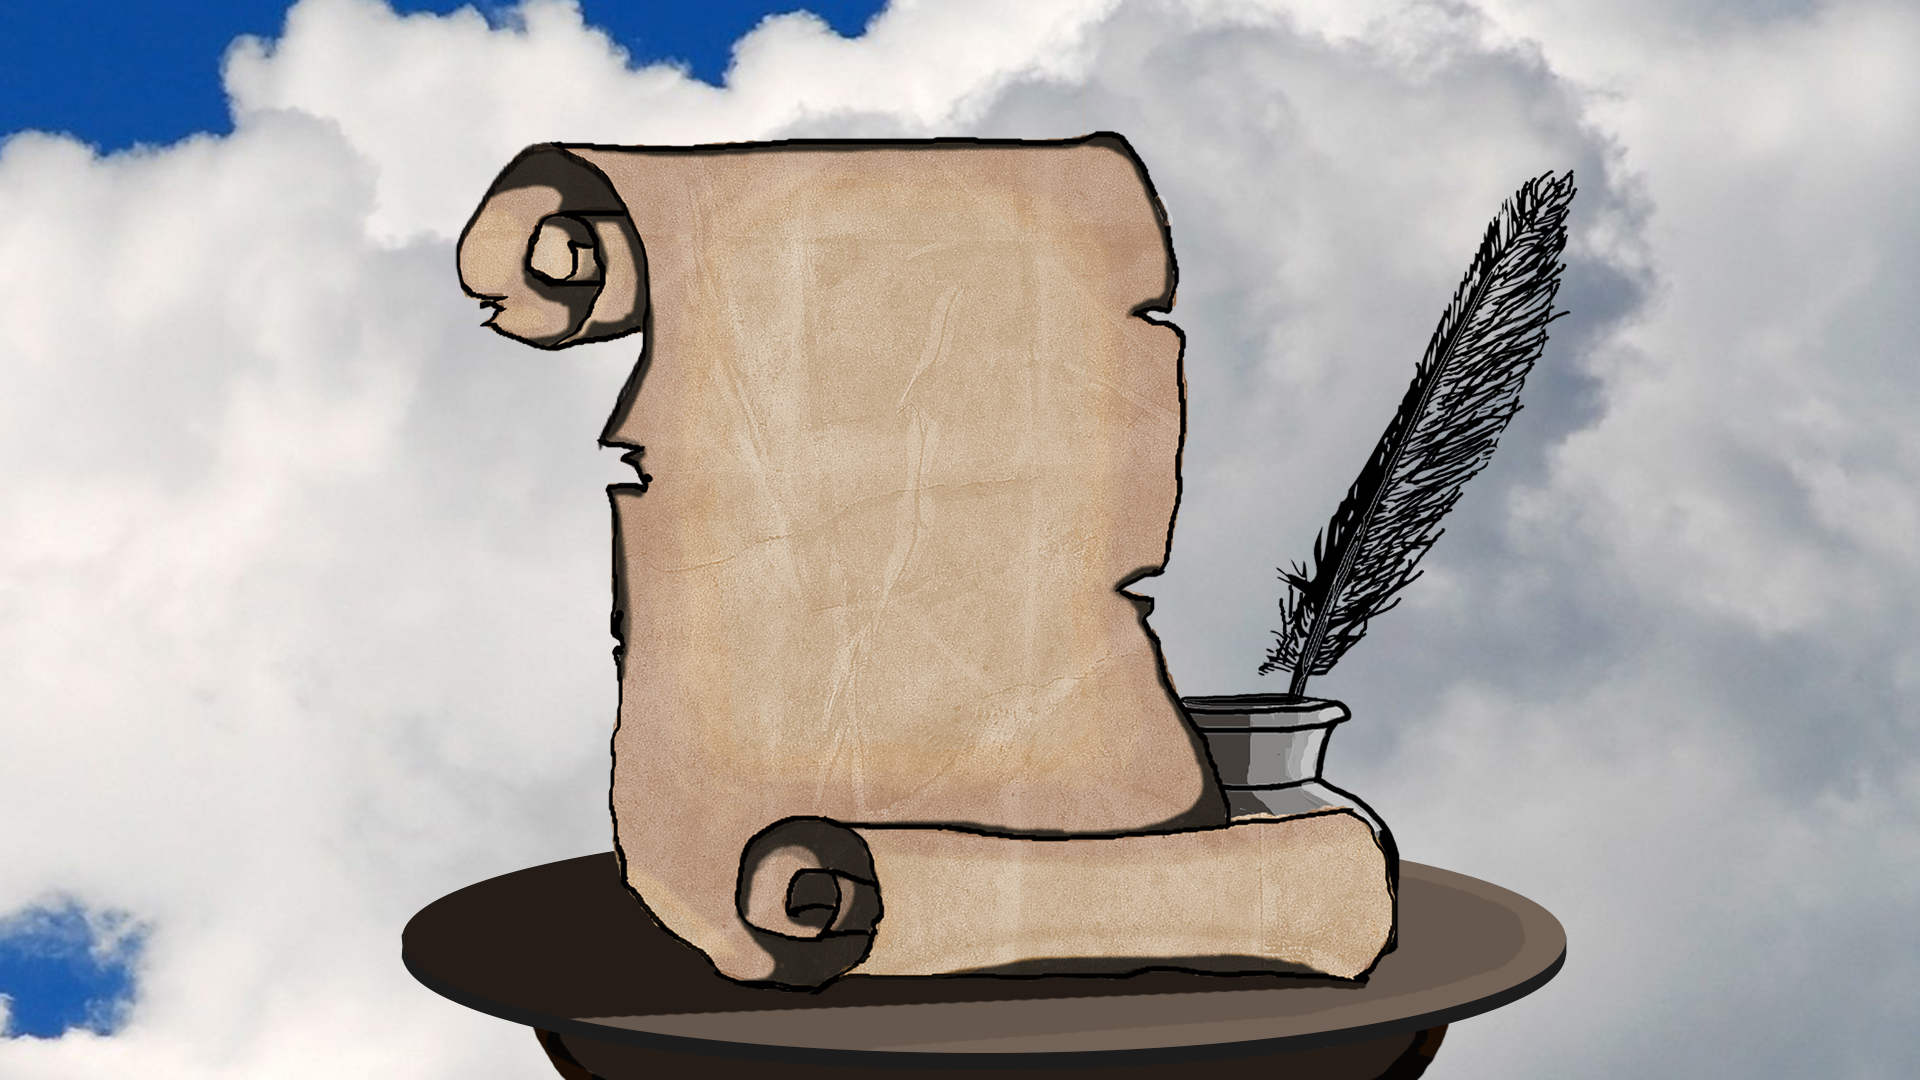
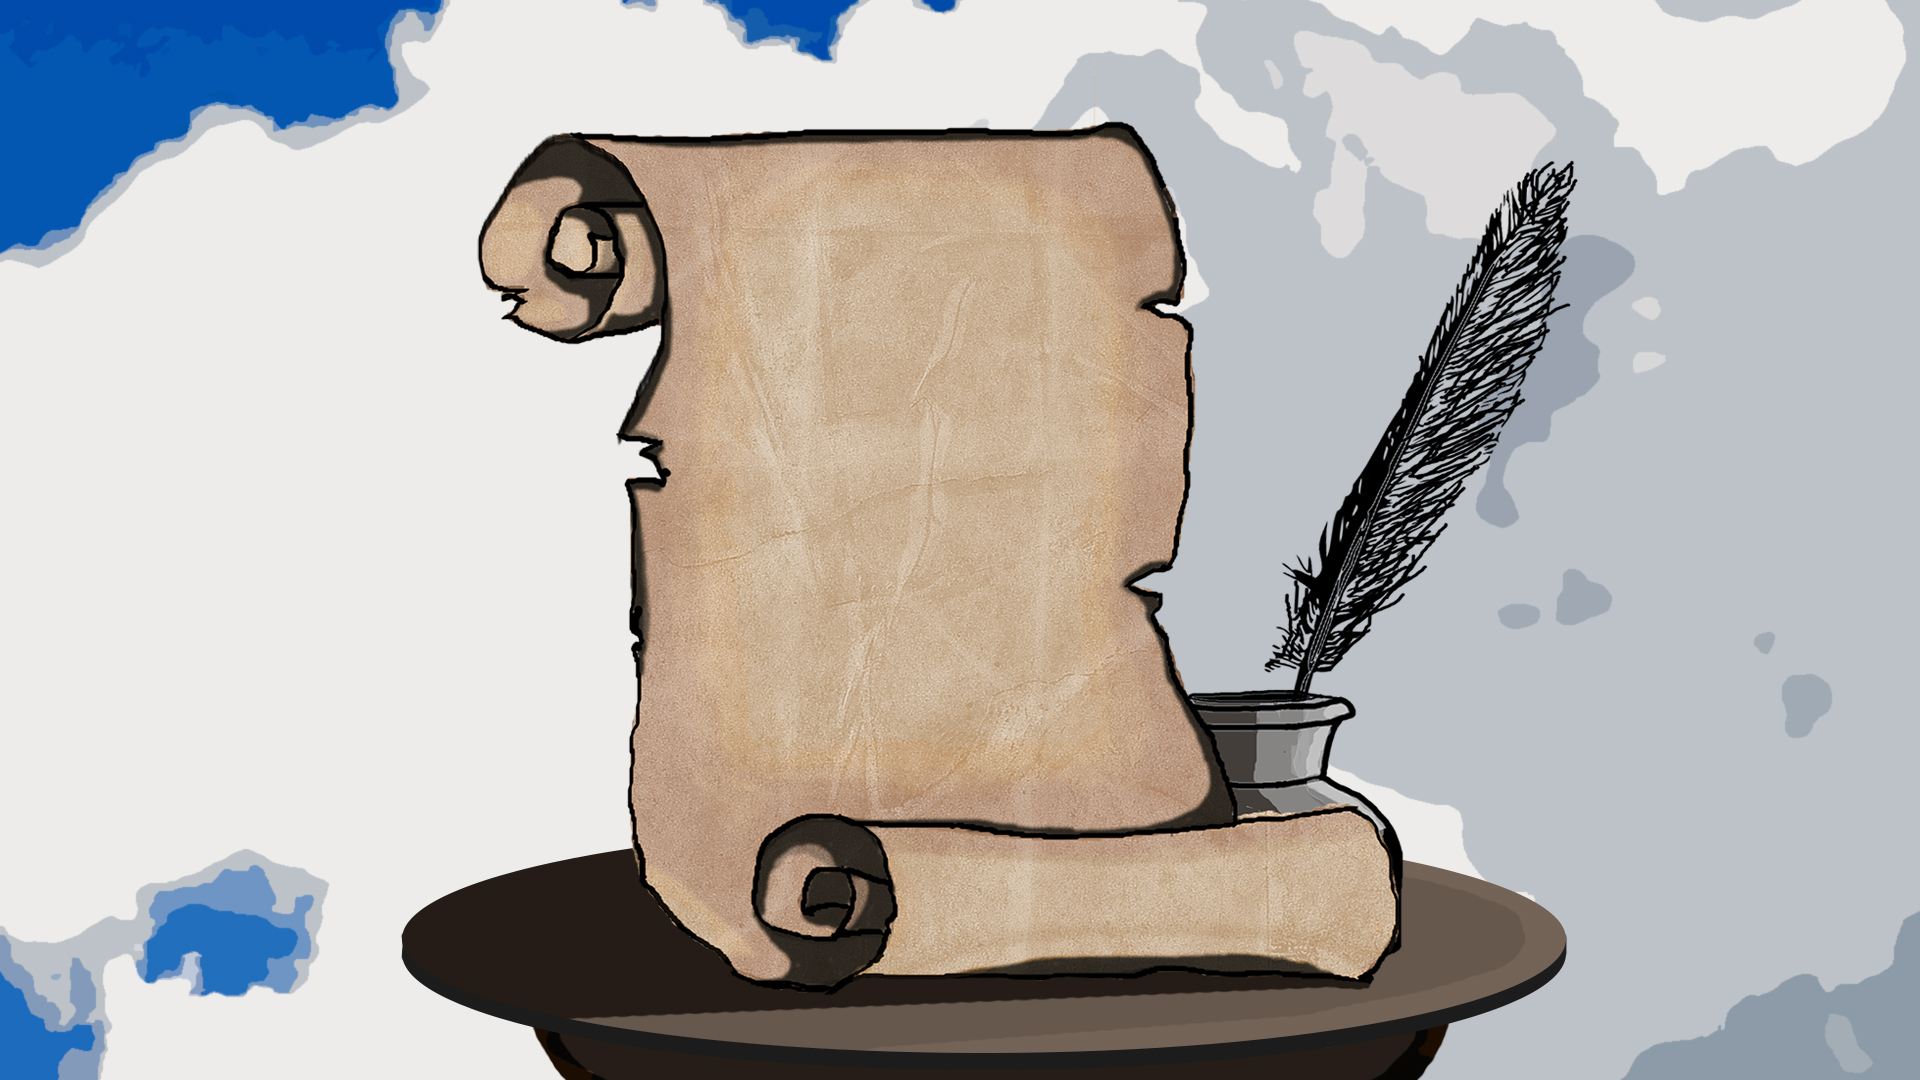
sad

diff --git a/Storyteller/src/main/resources/assets/css/style.css b/Storyteller/src/main/resources/assets/css/style.css
@@ -37,7 +37,7 @@ body {
     padding: 5px 20px;
     width: 14%;
     color: black;
-    background-color: #BEB3A0;
+    background-color: #AC8F63  ;
     border: 4px solid #000000;
     border-radius: 7px;
     font-size: 20px;
@@ -52,7 +52,7 @@ body {
     /*width: 7.8%;*/
     position: absolute;
     padding: 5px 50px ;
-    background-color: #AD9C7F;
+    background-color: #AC8F63  ;
     outline: none;
     color: #000000;
     border: 4px solid #000000;
@@ -74,7 +74,7 @@ body {
 
 #pollButton {
     padding: 5px 50px ;
-    background-color: #AD9C7F;
+    background-color: #AC8F63  ;
     outline: none;
     color: #000000;
     border: 4px solid #000000;
@@ -141,8 +141,8 @@ img {
 .txt {
     background-color: rgba(0, 0, 0, 0);
     position: absolute;
-    left: 35%;
-    top: 8.1%;
+    left: 36%;
+    top: 15%;
     width: 22%;
     height: 60%;
     font-size: 18px;
@@ -153,9 +153,34 @@ img {
 }
 
 
+#rules{
+  position: absolute;
+  left: 2%;
+  top: 4%;
+  padding: 10px 10px;
+  width: 21%;
+  height: 57%;
+  border: 20px solid #000000;
+  border-radius: 20px;
+  background-color: rgba(255, 255, 255, 0.55);
+  color: black;
+  border: none;
+  font-family: font;
+  font-size: 20px;
+  border: none;
+  resize: none;
 
+}
 
+.fit{
+  height: 100%;
+  width: 100%;
+}
 
+.center {
+  display: block;
+  margin: auto;
+}
 @font-face {
     font-family: font;
     src: url('font2.ttf');
@@ -215,17 +240,4 @@ img {
     margin-top: 20px;
     font-family: font;
     font-size: 24px;
-}
-
-#rules{
-  position: absolute;
-  left: 70%;
-  top: 25%;
-  width: 25%;
-  height: 44%;
-  background-color: rgba(74, 65, 48, 0.65);
-  color: black;
-  border: none;
-  font-family: font;
-  font-size: 20px;
 }

diff --git a/Storyteller/src/main/resources/assets/index.html b/Storyteller/src/main/resources/assets/index.html
@@ -20,9 +20,14 @@
         </div>
     </div>
     <div class="">
-      <textarea name="pravila" id="rules" disabled="true" >                                       GAME RULES
+      <textarea name="pravila" id="rules" disabled >                            Game Rules
 
-  storywritter is a typing-based game made for 5 players. players take alternating turns, typing only one word at a time. each player has 8 seconds for his/hers turn, and if the time runs out, the game continues skipping to a next player. if the player decides to end the sentence, he should put a punctuation mark, but doing so he can't write any other word. the goal of the game is to write the best possible story you can. the game ends when the majority of players decide the story should be finished, by starting the end-game vote. </textarea>
+  - storywritter is a typing-based game made for 5 players.
+  - players take alternating turns, typing only one word at a time.
+  - each player has 8 seconds to type the word.
+  - if the player decides to end the sentence, he should put a punctuation mark, but doing so he can't write anything else.
+  - the goal of the game is to write a story and have fun.
+  - the game ends when the majority of players decide the story should be finished(by clicking the end-game vote button). </textarea>
     </div>
 </div>
 

diff --git a/Storyteller/src/main/resources/assets/inGame.html b/Storyteller/src/main/resources/assets/inGame.html
@@ -21,6 +21,8 @@
 
     </div>
 
+<div class="leftside">
+
 
     <input id="userInput" class="inp" type="text" autofocus>
 
@@ -36,7 +38,7 @@
     <div class="tajmer">
         <p id="tajmer"></p>
     </div>
-
+</div>
     <div class="manhut">
         2016 ManHut,Studios
     </div>

diff --git a/Storyteller/src/main/resources/assets/css/background.css b/Storyteller/src/main/resources/assets/css/background.css
@@ -1,0 +1,7 @@
+body {
+    background: url('../playscreen.jpg') no-repeat center center fixed;
+    -webkit-background-size: cover;
+      -moz-background-size: cover;
+      -o-background-size: cover;
+      background-size: cover;
+}
